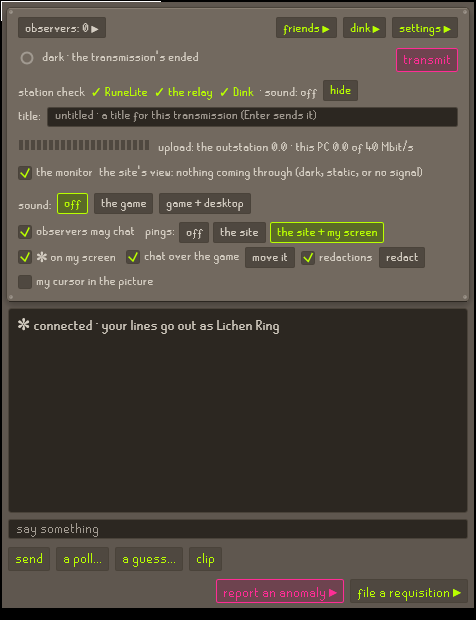
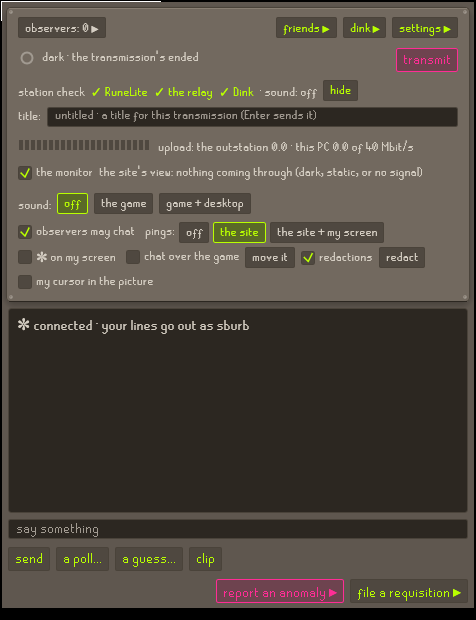
The README's pictures with sburb's own RuneLite in the game's place (his screenshot, cropped to the game area): sburb transmitting from the mole's lair, ja's line in the chat, the Giant Mole's kill count on the viewer; the uploaded screenshot itself taken back out of the repository
Claude-Session: https://claude.ai/code/session_015m6iukjiV4VB1cy29FBpGF

Changed region(s): [[0.4412, 0.3371, 0.8235, 0.3984], [0.4412, 0.521, 0.5882, 0.5516], [0.2647, 0.3984, 0.2941, 0.429]]

diff --git a/README.md b/README.md
@@ -13,13 +13,13 @@ An outstation on your PC, transmitting your RuneLite to your Outside page on [gh
 <p>
   <img src="docs/pictures/first.png" width="32%" alt="the first screen: paste a station key, request one, or report an anomaly">
   <img src="docs/pictures/ready.png" width="32%" alt="attached and dark, the station check ticking RuneLite, the relay and Dink">
-  <img src="docs/pictures/live.png" width="32%" alt="transmitting, with two observers chatting and the monitor showing what went out">
+  <img src="docs/pictures/live.png" width="32%" alt="transmitting to two observers, one of them chatting, and the monitor showing what went out">
 </p>
 <p>
-  <img src="docs/pictures/viewer.png" width="60%" alt="the viewer on the player's Outside page: the picture, a field report, and the two observers' chat">
+  <img src="docs/pictures/viewer.png" width="60%" alt="the viewer on the player's Outside page: the picture, the kill count, a field report and the chat">
 </p>
 
-The first screen; attached and dark, ready to transmit; transmitting, with two observers chatting; and what they see on the player's Outside page. (Pictured under Wine, with a drawn stand-in in RuneLite's place.)
+The first screen; attached and dark, ready to transmit; transmitting to two observers; and what they see on the player's Outside page. (Pictured under Wine, with a screenshot of sburb's RuneLite standing in for the game.)
 
 **Its words.** The window speaks ⊂λ,ｍ⊙'s language. Your **station key** is the code that attaches it to your channel; **transmitting** is live and **dark** is off air; **observers** are your viewers, and **on standby** the ones waiting for a seat; **the tape** is the replay buffer (the last seconds, always rolling); **redactions** are masks; **the monitor** is the small live view of what went out; **field reports** are Dink's posts; **the station check** is the ready check. The keeper **issues** keys, **denies** a request, **re-keys** a channel (a new key; the old one stops working) and **stands one down** (takes it back).
 
